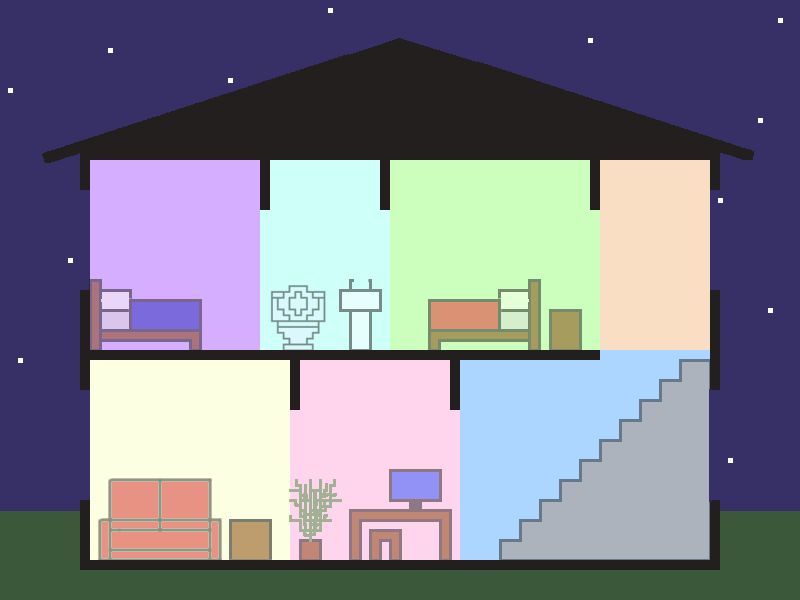
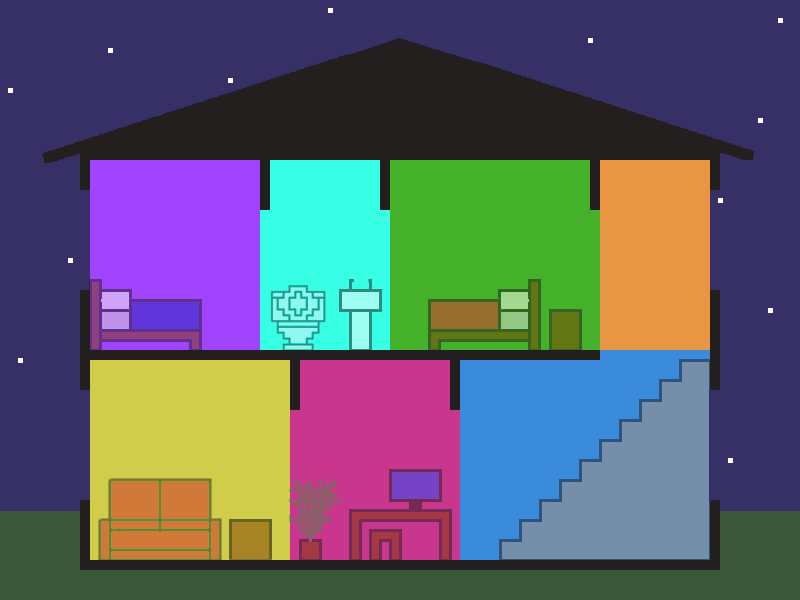
Added sound effects and particles when the moths are clicked. Also darkened rooms so light is more obvious

diff --git a/src/Scenes/PreloaderScene.js b/src/Scenes/PreloaderScene.js
@@ -76,9 +76,13 @@ export default class PreloaderScene extends Phaser.Scene {
         // load assets needed in our game
 
         this.load.audio('bgMusic', ['assets/audio/devonshire-waltz-allegretto-by-kevin-macleod-from-filmmusic-io.mp3']);
+        this.load.audio('pah1', ['assets/audio/sfx/pah1.mp3']);
+        this.load.audio('pah2', ['assets/audio/sfx/pah2.mp3']);
+        this.load.audio('pah3', ['assets/audio/sfx/pah3.mp3']);
 
         this.load.image('moth', 'assets/img/moth.png');
         this.load.spritesheet('mothSprite', 'assets/img/mothspritesheet.png', { frameWidth: 32, frameHeight: 20 });
+        this.load.image('dust', 'assets/img/dustParticle.png')
 
         this.load.image('menuBG', 'assets/img/TitlePageMattersSide.png');
         this.load.image('aboutBG', 'assets/img/AboutBG.png');
@@ -98,6 +102,10 @@ export default class PreloaderScene extends Phaser.Scene {
             loadingText.destroy();
             percentText.destroy();
             assetText.destroy();
+            this.sys.game.globals.bgMusic = this.sound.add('bgMusic', { volume: 0.5, loop: true });
+            this.game.registry.set('pah1', this.sound.add('pah1', { volume: 0.5 }));
+            this.game.registry.set('pah2', this.sound.add('pah2', { volume: 0.5 }));
+            this.game.registry.set('pah3', this.sound.add('pah3', { volume: 0.5 }));
             this.ready();
         }.bind(this));
 

diff --git a/src/Objects/Moth.js b/src/Objects/Moth.js
@@ -12,6 +12,7 @@ export default class Moth extends Phaser.GameObjects.Sprite {
         this.targetLayer = "lights";
         this.health = 100;
         this.isEscaping = false;
+        this.setInteractive();
 
         this.moveTimer = scene.time.addEvent({
             delay: 330,
@@ -33,6 +34,28 @@ export default class Moth extends Phaser.GameObjects.Sprite {
         });
 
         this.play({ key: 'flap', repeat: -1 });
+
+        var particles = scene.add.particles('dust');
+        particles.createEmitter({
+            angle: { min: 240, max: 300 },
+            speed: { min: 100, max: 250 },
+            quantity: { min: 20, max: 40 },
+            lifespan: 500,
+            alpha: { start: 1, end: 0 },
+            rotate: { start: 0, end: 360, ease: 'Back.easeOut' },
+            gravityY: 800,
+            on: false
+        });
+
+        this.on('pointerdown', function (pointer) {
+            scene.model = scene.sys.game.globals.model;
+            if (scene.model.soundOn === true) {
+                let sounds = ['pah1', 'pah2', 'pah3'];
+                let randSound = sounds[Math.floor(Math.random()*sounds.length)]
+                scene.game.registry.get(randSound).play();
+            }
+            particles.emitParticleAt(pointer.x, pointer.y);            
+        });
     }
 
     move() {

diff --git a/src/Scenes/TitleScene.js b/src/Scenes/TitleScene.js
@@ -27,12 +27,10 @@ export default class TitleScene extends Phaser.Scene {
         this.aboutButton = new Button(this, config.width*0.75, config.height/2 + 100, 'Button', 'ButtonPressed', 'About', 'About');
 
         this.model = this.sys.game.globals.model;
-        this.sys.game.globals.bgMusic = this.sound.add('bgMusic', { volume: 0.5, loop: true });
         if (this.model.musicOn === true && this.model.bgMusicPlaying === false) {
             this.sys.game.globals.bgMusic.play();
             this.model.bgMusicPlaying = true;
         }
-
 
          // Moth sprite group (controls physics for all moths)
         this.moths = this.physics.add.group({

diff --git a/src/Scenes/OptionsScene.js b/src/Scenes/OptionsScene.js
@@ -34,7 +34,7 @@ export default class OptionsScene extends Phaser.Scene {
             this.updateAudio();
         }.bind(this));
 
-        this.updateAudio();
+        //this.updateAudio();
 
         this.menuButton = new Button(this, 400, 500, 'Button', 'ButtonPressed', 'Menu', 'Title');
         this.updateAudio();

diff --git a/src/Model.js b/src/Model.js
@@ -1,7 +1,7 @@
 export default class Model {
     constructor() {
         this._soundOn = true;
-        this._musicOn = false;
+        this._musicOn = true;
         this._bgMusicPlaying = false;
         this._highscore = 0;
     }
